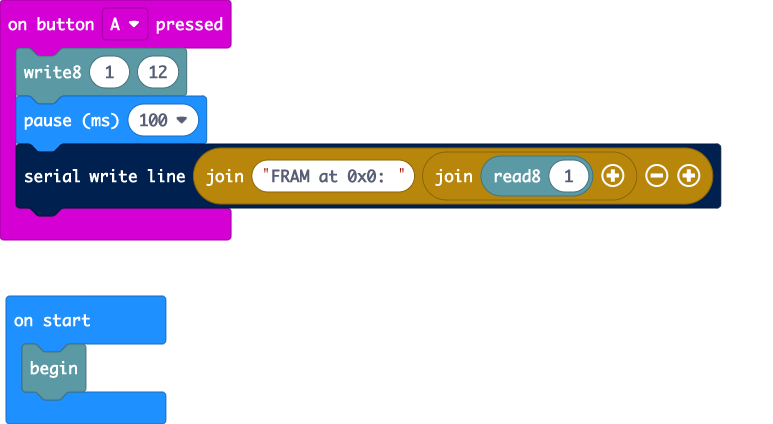
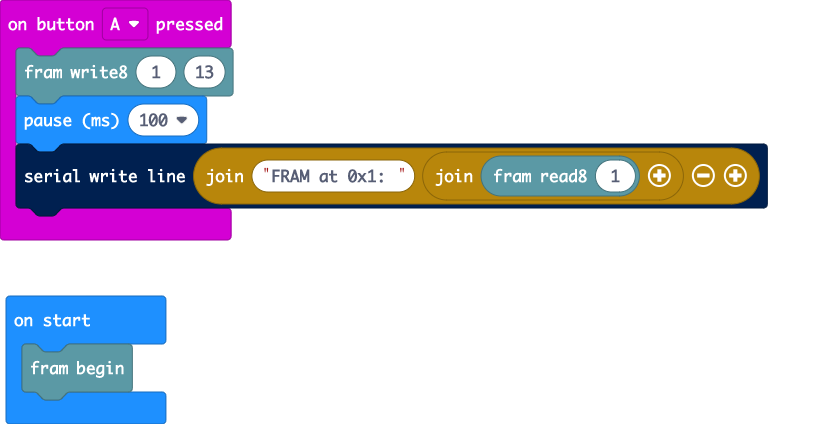
Made the namespace show up

diff --git a/custom.ts b/custom.ts
@@ -8,16 +8,24 @@ enum OPCODES {
 //% color=190 weight=100 icon="\uf1ec"
 //% advanced=true
 namespace fram {
-    //% block
+    //% blockId=fram_begin block="fram|begin"
     export function begin() {
         pins.digitalWritePin(DigitalPin.P16, 1)
         pins.spiPins(DigitalPin.P15, DigitalPin.P14, DigitalPin.P13)
         pins.spiFormat(8, 0)
         pins.spiFrequency(1000000)
         fram.getDeviceID()
-        fram.write_enable()
+        fram.writeEnable()
     }
-    //% block
+    
+    /**
+     * Write one byte to the address.
+     * @param addr to send over serial
+     * @param val to send over serial
+     */
+    //% weight=90
+    //% help=fram/write8 blockGap=8
+    //% blockId=fram_write8 block="fram|write8 %addr %val"
     export function write8(addr: number, val: number) {
         pins.digitalWritePin(DigitalPin.P16, 0)
         pins.spiWrite(OPCODES.OPCODE_WRITE)
@@ -26,7 +34,7 @@ namespace fram {
         pins.spiWrite(val)
         pins.digitalWritePin(DigitalPin.P16, 1)
     }
-    //% block
+    //% blockId=fram_getdeviceid block="fram|get device ID"
     export function getDeviceID () {
         let whoami = 0
         let wh0 = 0
@@ -47,14 +55,14 @@ namespace fram {
             serial.writeLine("ERR: FRAM not Connected")
         }
     }
-    //% block
-    export function write_enable() {
+    //% blockId=fram_writeenable block="fram|write enable"
+    export function writeEnable() {
         pins.digitalWritePin(DigitalPin.P16, 0)
         let wh3 = pins.spiWrite(OPCODES.OPCODE_WREN)
         pins.digitalWritePin(DigitalPin.P16, 1)
         serial.writeLine("FRAM Writes Enabled")
     }
-    //% block
+    //% blockId=fram_read8 block="fram|read8 %addr"
     export function read8 (addr: number) {
         pins.digitalWritePin(DigitalPin.P16, 0)
         pins.spiWrite(OPCODES.OPCODE_READ)

diff --git a/test.ts b/test.ts
@@ -1,1 +1,7 @@
 // tests go here; this will not be compiled when this package is used as an extension.
+input.onButtonPressed(Button.A, function () {
+    fram.write8(1, 13)
+    basic.pause(100)
+    serial.writeLine("FRAM at 0x1: " + ("" + fram.read8(1)))
+})
+fram.begin()

diff --git a/main.ts b/main.ts
@@ -1,6 +1,6 @@
 input.onButtonPressed(Button.A, function () {
-    fram.write8(1, 12)
+    fram.write8(1, 13)
     basic.pause(100)
-    serial.writeLine("FRAM at 0x0: " + ("" + fram.read8(1)))
+    serial.writeLine("FRAM at 0x1: " + ("" + fram.read8(1)))
 })
 fram.begin()
